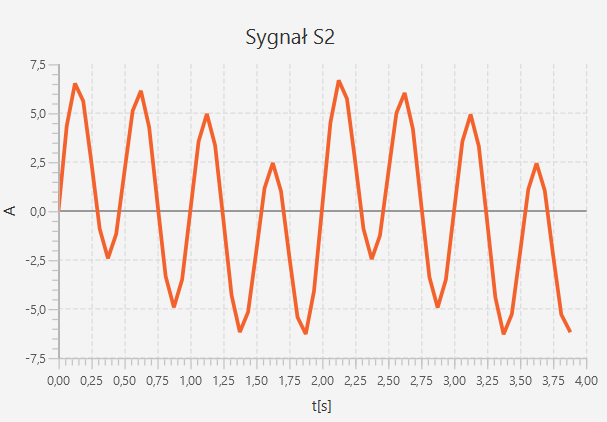
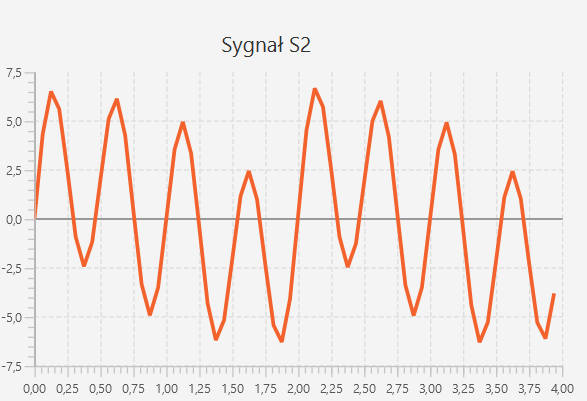
Add time measuring and screens of charts

Changed region(s): [[0.0, 0.1496, 0.9813, 0.9875], [0.368, 0.0599, 0.552, 0.1496], [0.0307, 0.9576, 0.2453, 0.9875]]

diff --git a/Exercise_4/cps_project/src/main/java/pl/cps/App.java b/Exercise_4/cps_project/src/main/java/pl/cps/App.java
@@ -152,7 +152,12 @@ public class App extends Application {
         addToGeneratedBtn.setOnMouseClicked((action) -> {
             //hardcoded Signal to match S2 from instruction
             Signal signal = new SinusoidalSignal(5,0,4,0.5);
-            resultPoints = Addition.performCalculating(signal.calculateAndReturnPoints(16), resultPoints);
+            List<Data> signalPoints = signal.calculateAndReturnPoints(16);
+            Data lastValueTmp = resultPoints.get(resultPoints.size()-1);
+            resultPoints = Addition.performCalculating(signalPoints, resultPoints);
+            // nie dodaje się ostatnia próbka, więc dodaje ją ręcznie
+            resultPoints.add(new Data(lastValueTmp.getX(), lastValueTmp.getY() +
+                    signalPoints.get(signalPoints.size()-1).getY()));
             mainLayout.addOperationSignalAfterAddition(resultPoints);
         });
         transformBtn.setOnMouseClicked((action) -> {
@@ -548,18 +553,25 @@ public class App extends Application {
         List<Complex> pointsAfterTransformation;
 
         pointsBeforeTransformation = ComplexConverter.convertDataToComplex(resultPoints);
+        long start = System.nanoTime();
+        long stop = 0;
         // jeśli DFT lub FFT to po 2 wykresy nam potrzebne
         if (selectedTransformType.equals("DFT")) {
             pointsAfterTransformation = DFTTransformer.simpleDFTTransform(pointsBeforeTransformation);
+            stop = System.nanoTime();
             transformedChartsPane = preparePointsToShow(pointsAfterTransformation);
         } else if (selectedTransformType.equals("FFT")){
             pointsAfterTransformation = FFTTransformer.fftTransform(pointsBeforeTransformation);
+            stop = System.nanoTime();
             transformedChartsPane = preparePointsToShow(pointsAfterTransformation);
         }
 //        else { //jeśli falkowa to (chyba) 1 wykres,
 //            transformingWindowLayout1 = new TransformingWindowLayout();
 //            transformingWindowLayout2 = null;
 //        }
+
+        long timeElapsed = stop - start;
+        System.out.println("time: " + timeElapsed);
 
         transformationStage.initOwner(stage);
         Scene transformedChartsScene = new Scene(transformedChartsPane);

diff --git a/Exercise_4/cps_project/src/main/java/pl/cps/view/ChartComponent.java b/Exercise_4/cps_project/src/main/java/pl/cps/view/ChartComponent.java
@@ -23,10 +23,10 @@ public class ChartComponent extends HBox {
     public ChartComponent() {
 
         xAxis = new NumberAxis();
-        xAxis.setLabel("t[s]");
+        xAxis.setLabel("numer próbki");
 
         yAxis = new NumberAxis();
-        yAxis.setLabel("A");
+        yAxis.setLabel("liczba urojona");
 
 
         series = new XYChart.Series<>();
